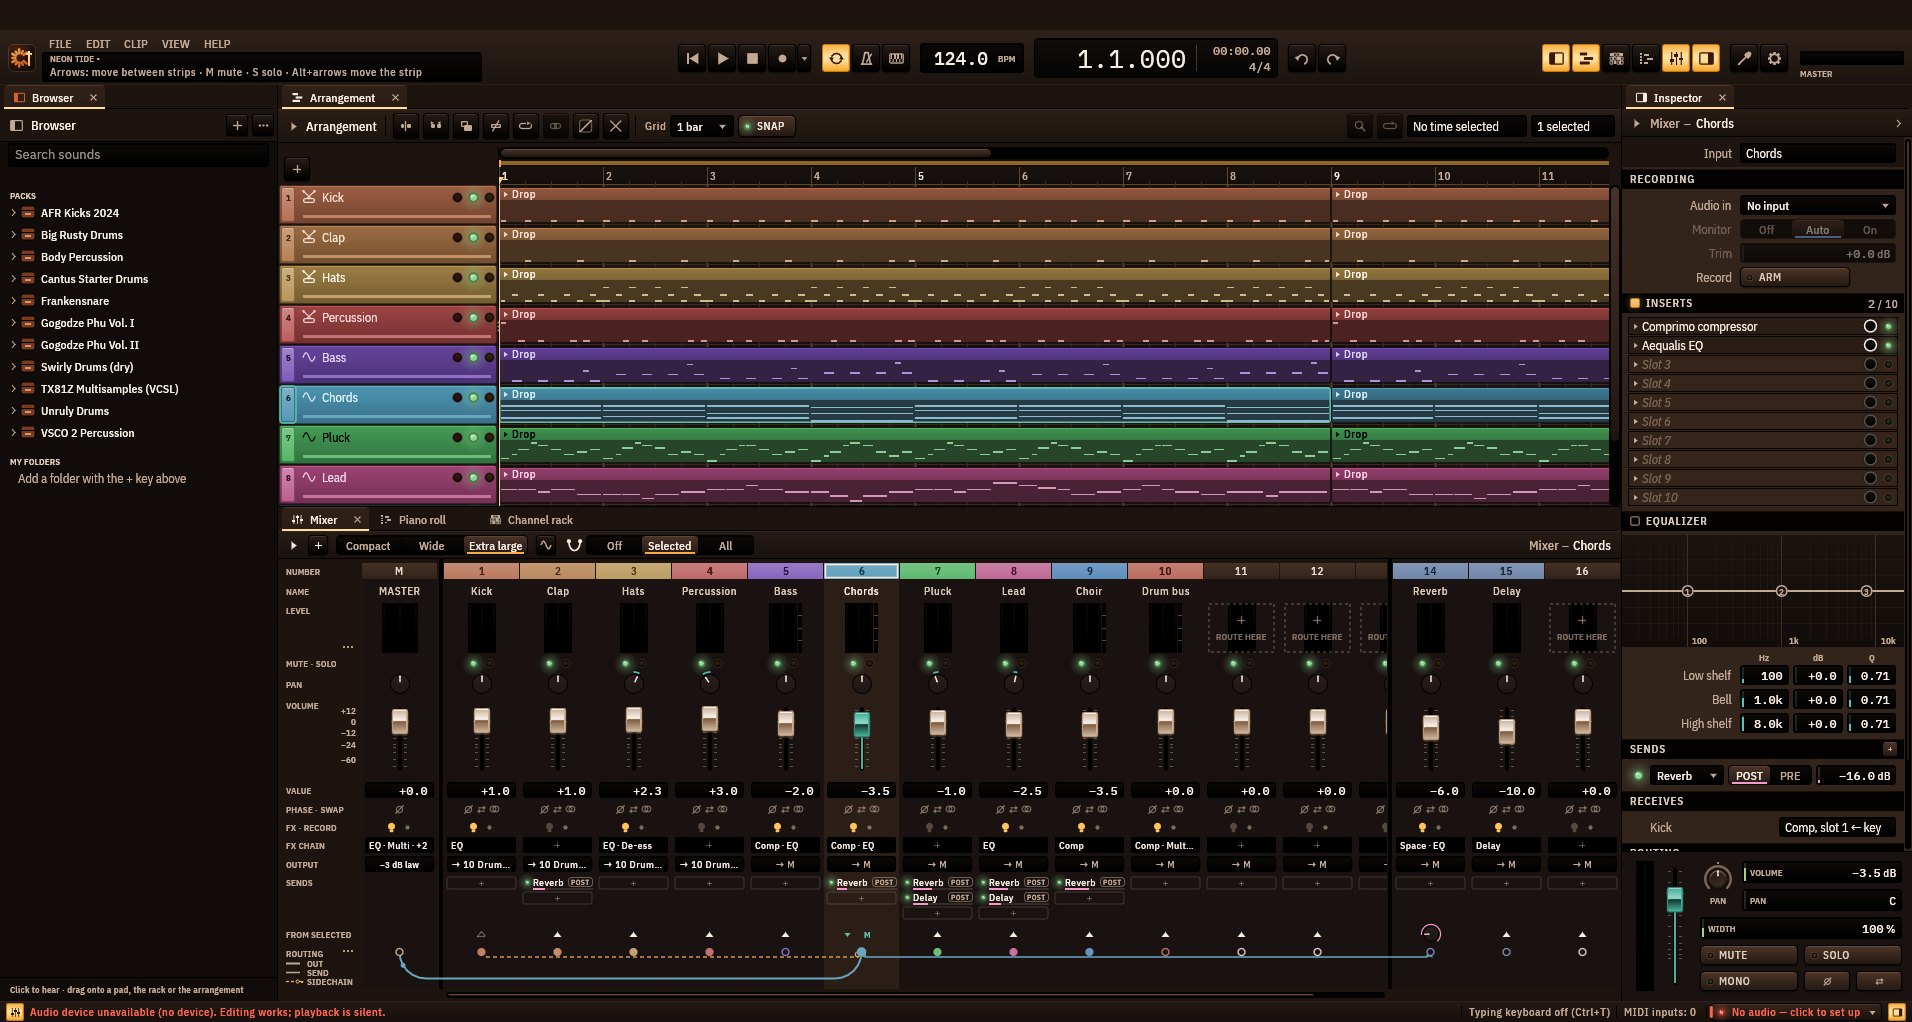
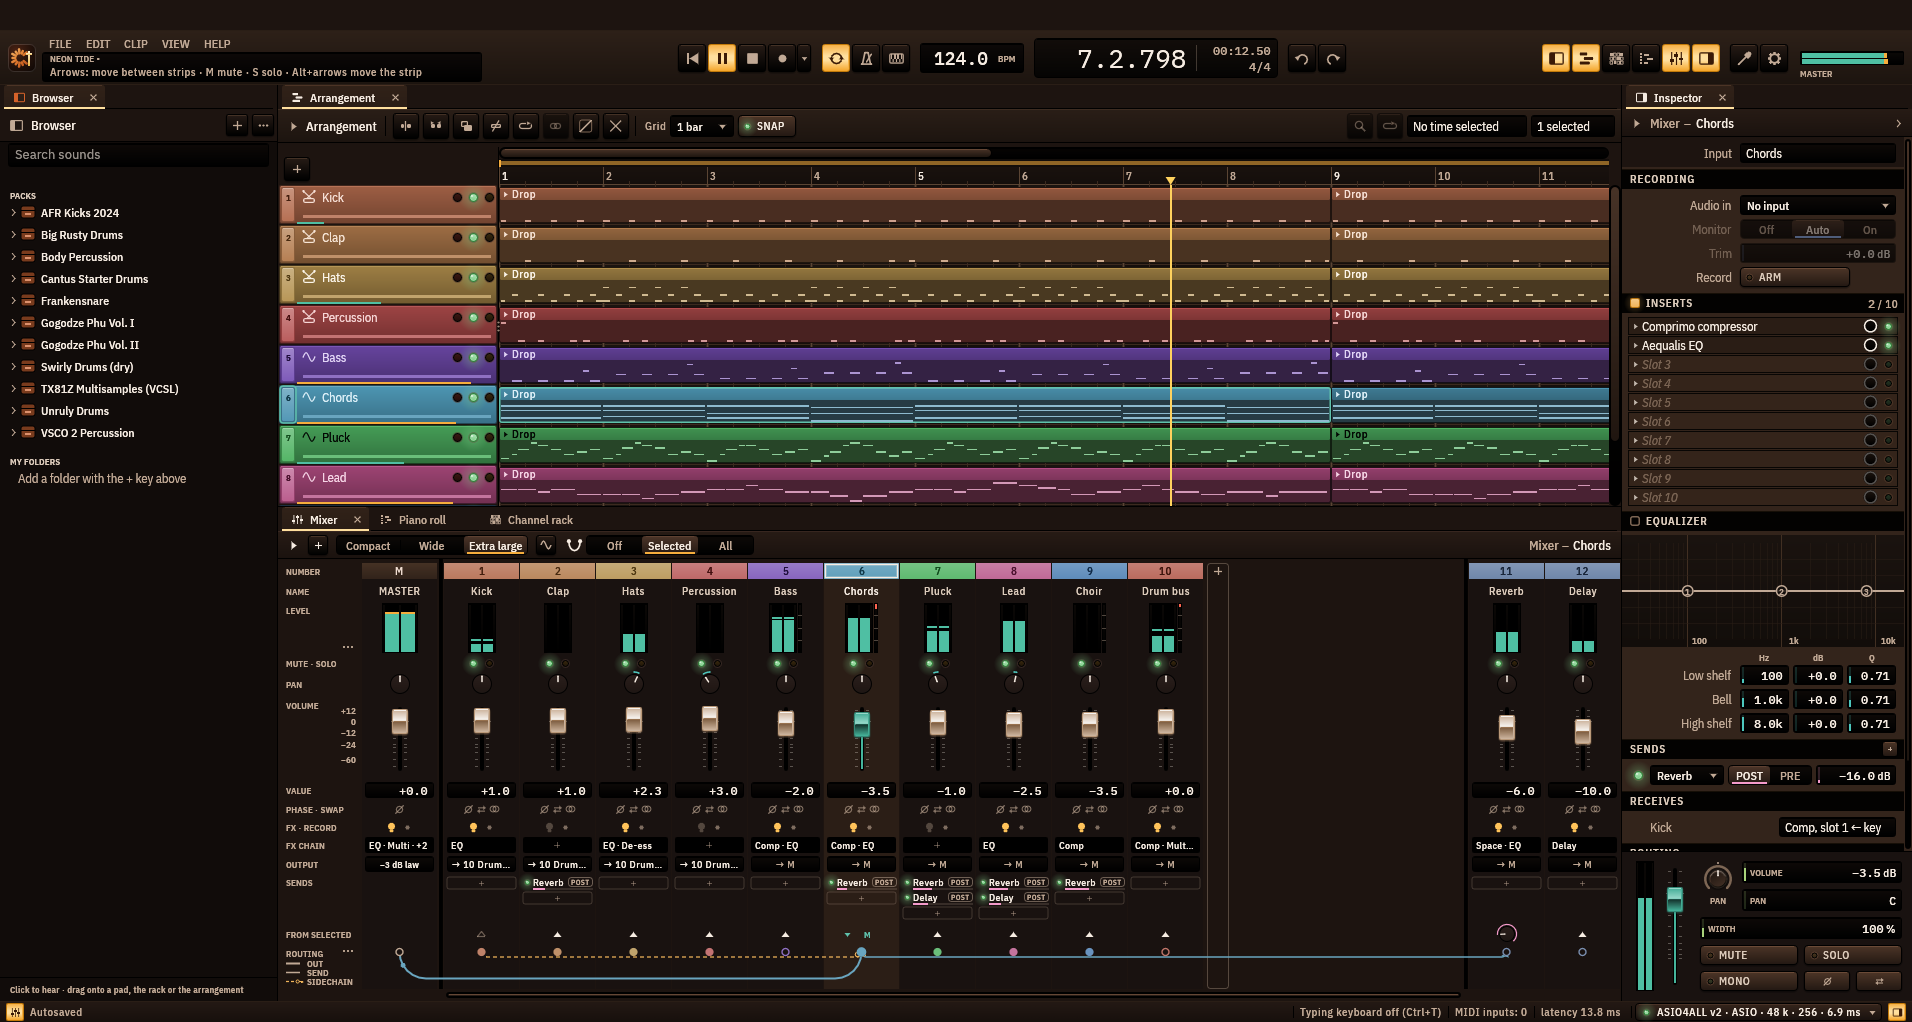
Site hero: playing, ASIO device connected, the desk ends cleanly

diff --git a/crates/cantus-ui/examples/shoot_site.rs b/crates/cantus-ui/examples/shoot_site.rs
@@ -35,7 +35,8 @@ fn main() {
     let ctx = egui::Context::default();
     cantus_ui::design::install_fonts(&ctx);
     cantus_ui::design::install_style(&ctx);
-    let mut app = CantusApp::from_parts(Some(demos::startup_project()), EngineHandle::dummy(), false);
+    let (engine, mut processor) = EngineHandle::manual(48_000.0);
+    let mut app = CantusApp::from_parts(Some(demos::startup_project()), engine, false);
     // Never touch the user's files.
     let tmp = std::env::temp_dir().join("cantus-shoot-site");
     app.settings_path = tmp.join("settings.json");
@@ -44,6 +45,29 @@ fn main() {
     app.appearance_path = tmp.join("appearance.json");
     app.appearance.mode = if paper { Mode::Light } else { Mode::Dark };
     app.attach(&ctx);
+    // A working studio: the demo interface, here an ASIO driver at 48 kHz and 256 samples.
+    cantus_ui::audio_setup::demo::setup(&mut app);
+    if let Some(live) = app.audio_setup.demo.as_mut() {
+        live.driver = "ASIO".into();
+        live.device = "ASIO4ALL v2".into();
+        live.wanted = live.device.clone();
+        live.block = 256;
+    }
+    // Named by its driver, as an unlisted interface is.
+    app.audio_setup.scan = None;
+    app.settings.audio.device = Some("ASIO4ALL v2".into());
+    app.set_status(cantus_ui::i18n::t("status.autosaved"));
+    // The desk ends cleanly: the strips nothing feeds (the empty slots) are removed.
+    let empty: Vec<_> = app
+        .project()
+        .strips
+        .iter()
+        .filter(|s| s.name.is_empty() && s.effects.is_empty())
+        .map(|s| s.id)
+        .collect();
+    for id in empty {
+        app.exec(cantus_core::Command::RemoveStrip { id });
+    }
     app.central = cantus_ui::app::CentralView::Mixer;
     cantus_ui::views::mixer::set_width_mode(&mut app, WidthMode::from_index(2));
     let mut prefs = app.mixer.prefs();
@@ -52,6 +76,14 @@ fn main() {
     // The chords: sidechained from the kick, sent to the reverb; the selected strip's cables.
     if let Some(strip) = app.project().tracks.get(5).and_then(|t| t.strip) {
         app.select_strip(strip);
+    }
+    // Playing, a few bars in: the clock, the playhead and the meters move.
+    app.sync_engine();
+    app.seek(cantus_core::Ticks::beats(24));
+    app.toggle_play();
+    let mut audio = vec![0f32; 800 * 2];
+    for _ in 0..40 {
+        processor.process(&mut audio, 2);
     }
     let name = if paper { "app-mixer-xl-paper.png" } else { "app-mixer-xl.png" };
     let path = dir.join(name);
@@ -71,6 +103,7 @@ fn main() {
             app.workspace.impose_sizes(INSPECTOR_PX, 0.0);
         }
         frame += 1;
+        processor.process(&mut audio, 2);
         let pal = cantus_ui::theme::p();
         egui::Panel::top(egui::Id::new("site-caption"))
             .exact_size(CAPTION)
